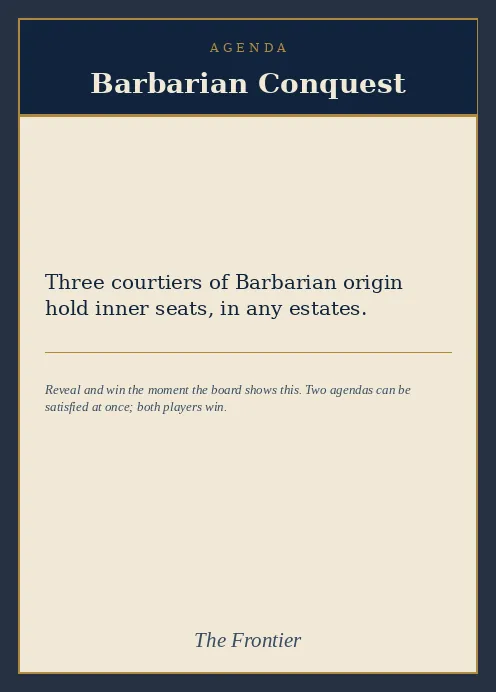
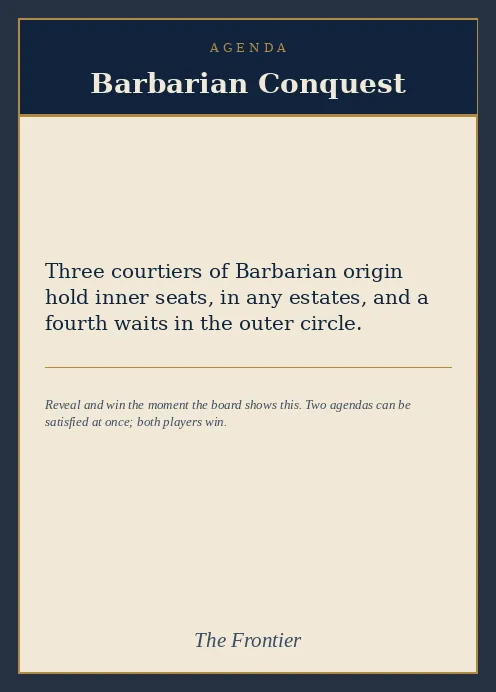
Barbarian Conquest wants a fourth barbarian in the outer circle
Conquest now needs three barbarians holding inner seats, in any estates,
and a fourth waiting in the outer circle. The agenda tracker shows the
second clause, the Barbarian Conquest card is re-rendered, and
docs/RULES.md records every version tried.

In 5,000 games (default table, seed 1) Conquest goes from 34.9% to 24.8%,
and all eight agendas sit within 24.8-28.7%, the tightest spread yet.
The median game is 45 turns.

The hand-limit browser test moves to seed 1683, where the limit comes on
the sixteenth decision.

Claude-Session: https://claude.ai/code/session_01N33ZYiZig83JtVZBownZVB

Changed region(s): [[0.0907, 0.3642, 0.877, 0.4855], [0.0907, 0.5462, 0.8165, 0.6373]]

diff --git a/web/tests/game.spec.ts b/web/tests/game.spec.ts
@@ -85,11 +85,11 @@ test("an event that asks you something is announced first", async ({ page }) => 
 });
 
 test("a hand over the limit is trimmed as your turn ends", async ({ page }) => {
-  // Seed 2329: taking the first move each time, your hand passes 7 on the
-  // third decision.
+  // Seed 1683: taking the first move each time, your hand passes 7 on the
+  // sixteenth decision.
   const errors: string[] = [];
-  await start(page, errors, 2329);
-  for (let i = 0; i < 3; i++) await playFromList(page);
+  await start(page, errors, 1683);
+  for (let i = 0; i < 15; i++) await playFromList(page);
   await settle(page);
   await expect(page.locator(".prompt")).toContainText("Your hand is over the limit of 7");
   expect(await page.locator(".mine .card").count()).toBeGreaterThan(7);

diff --git a/tests/test_rules.py b/tests/test_rules.py
@@ -913,13 +913,16 @@ class TestWinConditions(unittest.TestCase):
         seat(state, "Rider of the Long Road", Seat.CAPTAIN_OF_THE_GUARD)
         self.assertTrue(satisfied(state, agenda))
 
-    def test_barbarian_conquest_wins_on_three_seated_barbarians(self):
+    def test_barbarian_conquest_wins_on_three_seated_and_a_fourth_outside(self):
         state = fresh()
         agenda = AGENDAS_BY_KEY["barbarian_conquest"]
         seat(state, "Priest of the Two-Horned God", Seat.ARCHPRIEST)
         seat(state, "Caravan-Lord of the Salt Road", Seat.KEEPER_OF_THE_TREASURY)
         self.assertFalse(satisfied(state, agenda))
         seat(state, "Master Mason", Seat.VOICE_OF_THE_PEOPLE)
+        self.assertFalse(satisfied(state, agenda))  # three seated, none waiting
+        self.assertTrue(satisfied(judged_as(state, conquest_outer_barbarians=0), agenda))
+        outer(state, "Warlord of the Iron Grove")
         self.assertTrue(satisfied(state, agenda))
         # A variant asks for four.
         self.assertFalse(satisfied(judged_as(state, conquest_barbarians=4), agenda))
@@ -932,6 +935,7 @@ class TestWinConditions(unittest.TestCase):
         seat(state, "Priest of the Two-Horned God", Seat.ARCHPRIEST)
         seat(state, "Caravan-Lord of the Salt Road", Seat.KEEPER_OF_THE_TREASURY)
         seat(state, "Master Mason", Seat.VOICE_OF_THE_PEOPLE)
+        outer(state, "Warlord of the Iron Grove")
         variant = judged_as(state, conquest_military_seats=1)
         self.assertFalse(satisfied(variant, agenda))  # three, none a soldier
         seat(state, "Hundred-Kill Rider", Seat.LORD_GENERAL)
@@ -961,6 +965,7 @@ class TestWinConditions(unittest.TestCase):
         agenda = AGENDAS_BY_KEY["barbarian_conquest"]
         seat(state, "Cataphract of the Iron Bridge", Seat.LORD_GENERAL)
         seat(state, "Hundred-Kill Rider", Seat.CAPTAIN_OF_THE_GUARD)
+        outer(state, "Warlord of the Iron Grove")
         self.assertFalse(satisfied(state, agenda))
         seat(state, "Master Mason", Seat.VOICE_OF_THE_PEOPLE)
         self.assertTrue(satisfied(state, agenda))

diff --git a/succession/agendas.py b/succession/agendas.py
@@ -60,8 +60,12 @@ FAITH_SEATS = 4
 #: barbarians; asking for one barbarian made Balance too easy, and asking for
 #: every seat as well brings it back to an even share.
 BALANCE_SEATS = 7
-#: Barbarian Conquest: this many barbarians seated in the inner circle.
+#: Barbarian Conquest: this many barbarians seated in the inner circle...
 CONQUEST_BARBARIANS = 3
+#: ...and this many more waiting in the outer circle. With three seated and
+#: none outside, Conquest won 35% of games, ten points clear of the rest; one
+#: waiting outside brings it to an even share.
+CONQUEST_OUTER_BARBARIANS = 1
 #: Balance wants this many barbarians seated. It was two; with events played
 #: when drawn and the hand limit checked at the end of the turn, two left
 #: Balance the weakest agenda by four points.
@@ -83,8 +87,8 @@ class AgendaRules:
     conquest_barbarians: int = CONQUEST_BARBARIANS
     #: A variant: how many of them must hold Military seats (0-2).
     conquest_military_seats: int = 0
-    #: A variant: barbarians also wanted in the outer circle.
-    conquest_outer_barbarians: int = 0
+    #: Barbarians also wanted in the outer circle.
+    conquest_outer_barbarians: int = CONQUEST_OUTER_BARBARIANS
     #: Overrides layered on FAMILY_PREFERRED_ESTATE, as (family, estate) pairs.
     house_preferred_estate: tuple[tuple[str, str], ...] = ()
 

diff --git a/succession/runner.py b/succession/runner.py
@@ -219,7 +219,7 @@ def add_rules_arguments(parser: argparse.ArgumentParser, players: str = DEFAULT_
     parser.add_argument("--defense-matches-target", action="store_true", help="an estate Defense may only protect a courtier of that estate")
     parser.add_argument("--balance-seats", type=int, default=7, help="seats that must be filled for Balance to count (default all 7)")
     parser.add_argument("--conquest-barbarians", type=int, default=3, help="barbarians Barbarian Conquest wants seated (default 3)")
-    parser.add_argument("--conquest-outer-barbarians", type=int, default=0, help="variant: barbarians Barbarian Conquest also wants in the outer circle (default 0)")
+    parser.add_argument("--conquest-outer-barbarians", type=int, default=1, help="barbarians Barbarian Conquest also wants waiting in the outer circle (default 1)")
     parser.add_argument("--conquest-military-seats", type=int, default=0, choices=(0, 1, 2), help="variant: how many Military seats Barbarian Conquest's barbarians must hold (default 0)")
     parser.add_argument("--balance-barbarians", type=int, default=1, help="barbarians Balance wants seated (default 1)")
     parser.add_argument("--drop-agendas", default="", metavar="KEYS", help="leave agendas out of the pool entirely, e.g. balance")

diff --git a/succession/state.py b/succession/state.py
@@ -79,8 +79,8 @@ class Config:
     #: A variant: how many of Conquest's barbarians must hold Military seats
     #: (there are two: Lord General and Captain of the Guard).
     conquest_military_seats: int = 0
-    #: A variant: barbarians Conquest also wants waiting in the outer circle.
-    conquest_outer_barbarians: int = 0
+    #: Barbarians Conquest also wants waiting in the outer circle.
+    conquest_outer_barbarians: int = 1
     #: Agenda keys left out of the pool entirely -- neither dealt nor available
     #: to a Schismatic Event. For asking what the game looks like without one.
     excluded_agendas: tuple[str, ...] = ()

diff --git a/tools/card_text.py b/tools/card_text.py
@@ -280,7 +280,8 @@ AGENDA_TEXT: tuple[tuple[str, str, str], ...] = (
     (
         "Barbarian Conquest",
         "The Frontier",
-        "Three courtiers of Barbarian origin hold inner seats, in any estates.",
+        "Three courtiers of Barbarian origin hold inner seats, in any estates, "
+        "and a fourth waits in the outer circle.",
     ),
     (
         "Balance",

diff --git a/docs/RULES.md b/docs/RULES.md
@@ -163,12 +163,13 @@ state, **both** players win and the game is logged as a double win.
 |---|---|---|
 | House Rising | 3 (one per family) | That family holds **3+** of the 7 inner seats, **at least one of them in the family's own estate** |
 | Faith Ascendant | 3 (one per faith) | That faith holds 4+ of the 7 inner seats (`--faith-seats` to change) |
-| Barbarian Conquest | 1 | **3 barbarians seated in the inner circle** |
+| Barbarian Conquest | 1 | **3 barbarians seated in the inner circle**, and **a fourth waiting in the outer circle** (`--conquest-barbarians`, `--conquest-outer-barbarians`) |
 | Balance | 1 | **All seven seats filled**, and the inner circle simultaneously shows all three families, all three faiths, and **a barbarian** (`--balance-seats`, `--balance-barbarians`) |
 
-Barbarian Conquest is one clause: three barbarians holding inner seats, in any
-estates. There is no shortcut for taking both Military seats -- two barbarian
-generals are simply two of the three.
+Barbarian Conquest is two clauses: three barbarians holding inner seats, in
+any estates, and a fourth waiting in the outer circle -- the bloc in the
+palace and the host at the gates. There is no shortcut for taking both
+Military seats -- two barbarian generals are simply two of the three.
 
 Each house also fields one commoner -- its charioteer -- which is the only way
 a house can ever hold the Voice of the People's seat.
@@ -213,7 +214,7 @@ first; the flag flips it.
 | # | Decision | Default | Flag |
 |---|---|---|---|
 | 1 | **Killed courtiers go to the discard** and may reshuffle back as a *new* person with printed attributes (this is what "a killed courtier can reshuffle back in as a 'new' person, never a resurrection" implies). | return to discard | `--removed-out-of-game` takes them out for good |
-| 2 | **Balance wants one barbarian, Conquest three.** Balance wanted two until events played when drawn and the hand limit moved to the end of the turn; with two it fell to 21%, the weakest agenda by four points. | 1 / 3 | `--balance-barbarians` |
+| 2 | **Balance wants one barbarian; Conquest three seated and a fourth in the outer circle.** Balance wanted two until events played when drawn and the hand limit moved to the end of the turn; with two it fell to 21%, the weakest agenda by four points. Conquest with three seated and nothing more won 35%; a fourth seated, 15%; both Military seats among the three, 20%; two more in the outer circle, 17%; one more there, 24.8%, with all eight agendas inside 24.8-28.7%. | 1 / 3 + 1 | `--balance-barbarians`, `--conquest-barbarians`, `--conquest-outer-barbarians` |
 | 2b | **A house's own estate is its affiliation from the source document** (Amonides/Church, Mitreas/Merchant, Argaian/Military). | that table | `--house-preferred-estates` overrides a family; `--house-any-three` drops the requirement |
 | 2f | **All eight agendas are in the pool.** `--drop-agendas balance` takes one out entirely -- neither dealt nor reachable by a Schismatic Event. | all eight | `--drop-agendas` |
 | 2d | **Balance asks for all three faiths**, but not for a godless courtier, since godlessness has no agenda. | three faiths | -- |

diff --git a/docs/CARDS.md b/docs/CARDS.md
@@ -183,7 +183,7 @@ Four are dealt face down and four stay in the fog for a Schismatic Event to draw
 | <img src="cards/88-faith-ascendant-old-gods.jpg" alt="Faith Ascendant: Old Gods" width="132"> | **Faith Ascendant: Old Gods**<br><sub>Card 88</sub> | The Old Gods | Four or more of the seven inner seats are held by courtiers of the Old Gods. |
 | <img src="cards/89-faith-ascendant-mystery-cults.jpg" alt="Faith Ascendant: Mystery Cults" width="132"> | **Faith Ascendant: Mystery Cults**<br><sub>Card 89</sub> | The Mystery Cults | Four or more of the seven inner seats are held by courtiers of the Mystery Cults. |
 | <img src="cards/90-faith-ascendant-the-one-god.jpg" alt="Faith Ascendant: The One God" width="132"> | **Faith Ascendant: The One God**<br><sub>Card 90</sub> | The One God | Four or more of the seven inner seats are held by courtiers of The One God. |
-| <img src="cards/91-barbarian-conquest.jpg" alt="Barbarian Conquest" width="132"> | **Barbarian Conquest**<br><sub>Card 91</sub> | The Frontier | Three courtiers of Barbarian origin hold inner seats, in any estates. |
+| <img src="cards/91-barbarian-conquest.jpg" alt="Barbarian Conquest" width="132"> | **Barbarian Conquest**<br><sub>Card 91</sub> | The Frontier | Three courtiers of Barbarian origin hold inner seats, in any estates, and a fourth waits in the outer circle. |
 | <img src="cards/92-balance.jpg" alt="Balance" width="132"> | **Balance**<br><sub>Card 92</sub> | The Settlement | All seven seats are filled, and the inner circle shows all three families, all three faiths, and a barbarian at once. |
 
 ## Seat
